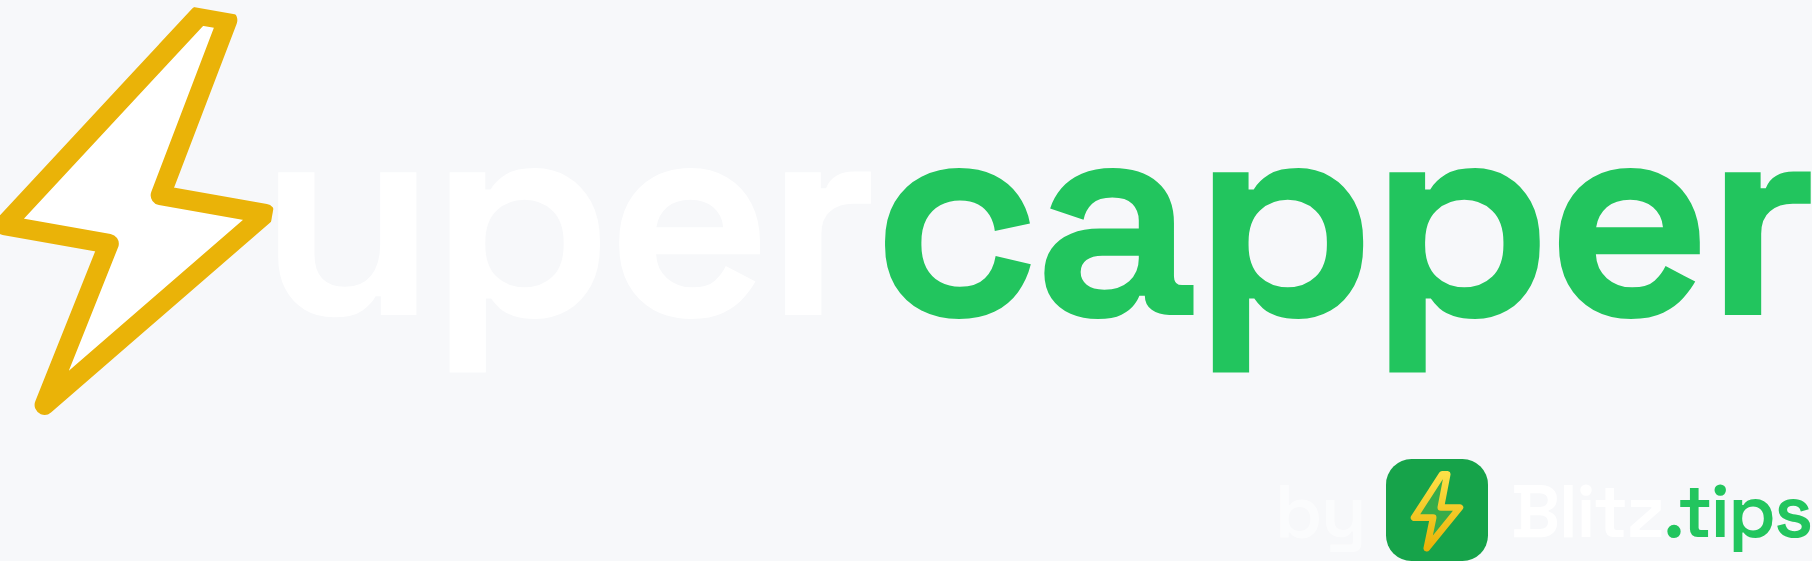
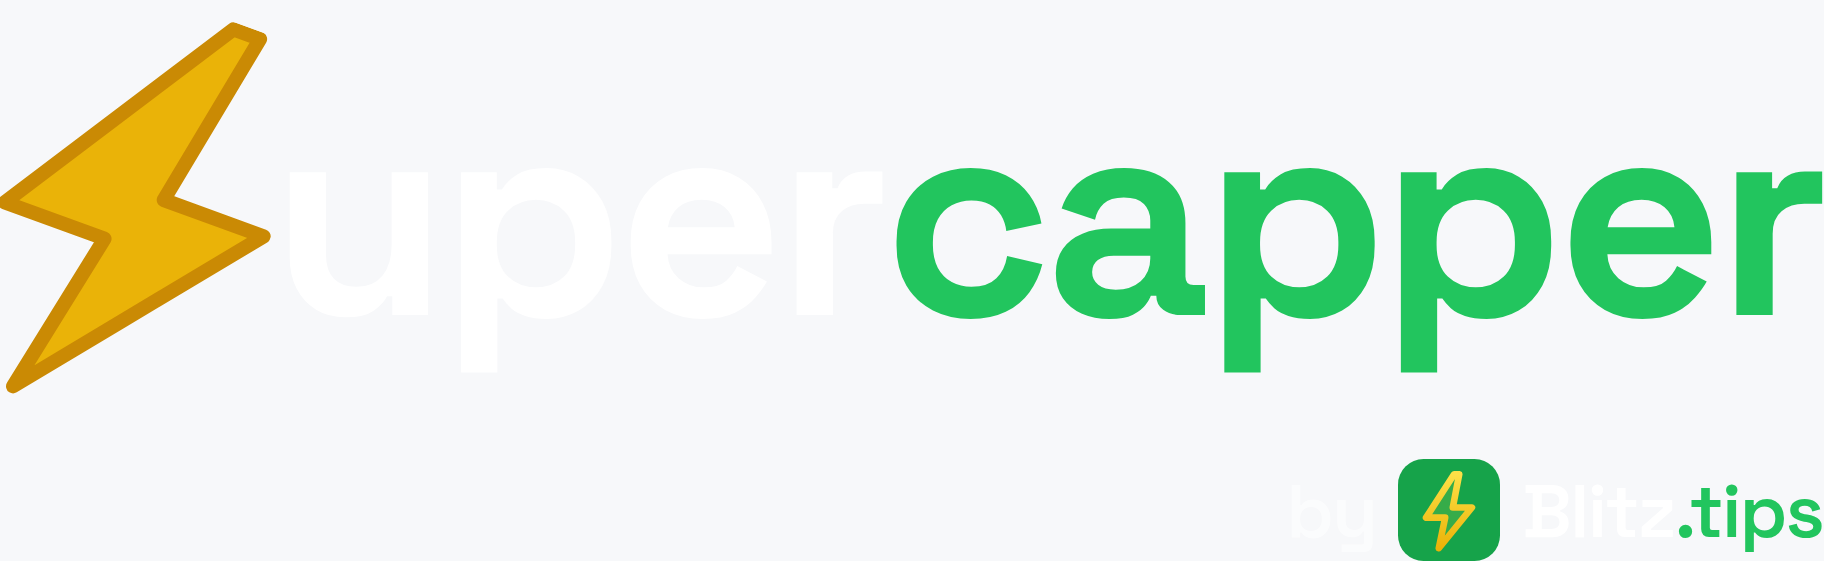
Solid gold bolt at 20°
The bolt is now gold throughout — solid fill with a deeper gold edge —
rather than a currentColor fill with a gold outline. It no longer depends
on the surrounding text color, so it renders identically on white and
black; only "capper" still shifts with `onDark`.

Tilt goes from 10° to 20°, which widens the bolt's footprint enough that
the negative margin pulling it toward the "u" is no longer needed at all.

Re-exported the four public/ lockup PNGs.

Claude-Session: https://claude.ai/code/session_016YpNsra3VmRDhQw8QQMKUK

diff --git a/src/components/contest/supercapper-logo.tsx b/src/components/contest/supercapper-logo.tsx
@@ -3,12 +3,12 @@ import { cn } from "@/lib/utils";
 
 const BLITZ_URL = "https://blitz.tips";
 
-// The Supercapper wordmark: the leading "S" is a thunder bolt, followed by
-// "upercapper" in the display font. The bolt and "uper" take the surrounding
-// text color (black on light, white reversed) with a gold outline on the bolt;
-// "capper" carries the brand green. Pass `onDark` on a dark surface: the accent
-// green is tuned for contrast on white and goes muddy on charcoal, so it steps
-// up to green-500 there.
+// The Supercapper wordmark: the leading "S" is a gold thunder bolt, followed by
+// "upercapper" in the display font — "uper" takes the surrounding text color
+// (black on light, white reversed) and "capper" carries the brand green. Pass
+// `onDark` on a dark surface: the accent green is tuned for contrast on white
+// and goes muddy on charcoal, so it steps up to green-500 there. The gold needs
+// no such treatment; it holds on both.
 // A sub-line can sit beneath: `withContest` for "Handicapping Contest",
 // `withByline` for the Blitz.tips attribution lockup, which links back to the
 // site — for anywhere the contest appears away from the site's own chrome
@@ -41,22 +41,23 @@ export function SupercapperLogo({
       >
         <span className="inline-flex items-center font-display font-extrabold tracking-tight">
           {/* viewBox is cropped tight to the bolt's bounds (no transparent
-              padding) so it can sit flush against the "u". Tilted 10° so it
-              reads as a strike rather than a static glyph; the rotation widens
-              its footprint, hence the smaller negative margin than an upright
-              bolt. Fill is currentColor — black on light, white reversed — with
-              a gold outline, the one place the original bolt's color survives. */}
+              padding) so it can sit against the "u". Tilted 20° so it reads as
+              a strike rather than a static glyph; that tilt widens its
+              footprint enough that it needs no negative margin at all. Solid
+              gold with a deeper gold edge, so it holds its silhouette against
+              both a white and a black background without depending on the
+              surrounding text color. */}
           <svg
             viewBox="10.5 5.5 19 30.5"
-            className="-mr-[0.04em] h-[1.5em] w-[0.94em] rotate-[10deg]"
+            className="h-[1.5em] w-[0.94em] rotate-[20deg]"
             fill="none"
             aria-hidden
           >
             <path
               d="M22 6 L11 23 H18.5 L16 35 L29 19 H21.5 L24 6 Z"
-              fill="currentColor"
-              stroke="#eab308"
-              strokeWidth="1.4"
+              fill="#eab308"
+              stroke="#ca8a04"
+              strokeWidth="1"
               strokeLinejoin="round"
             />
           </svg>
